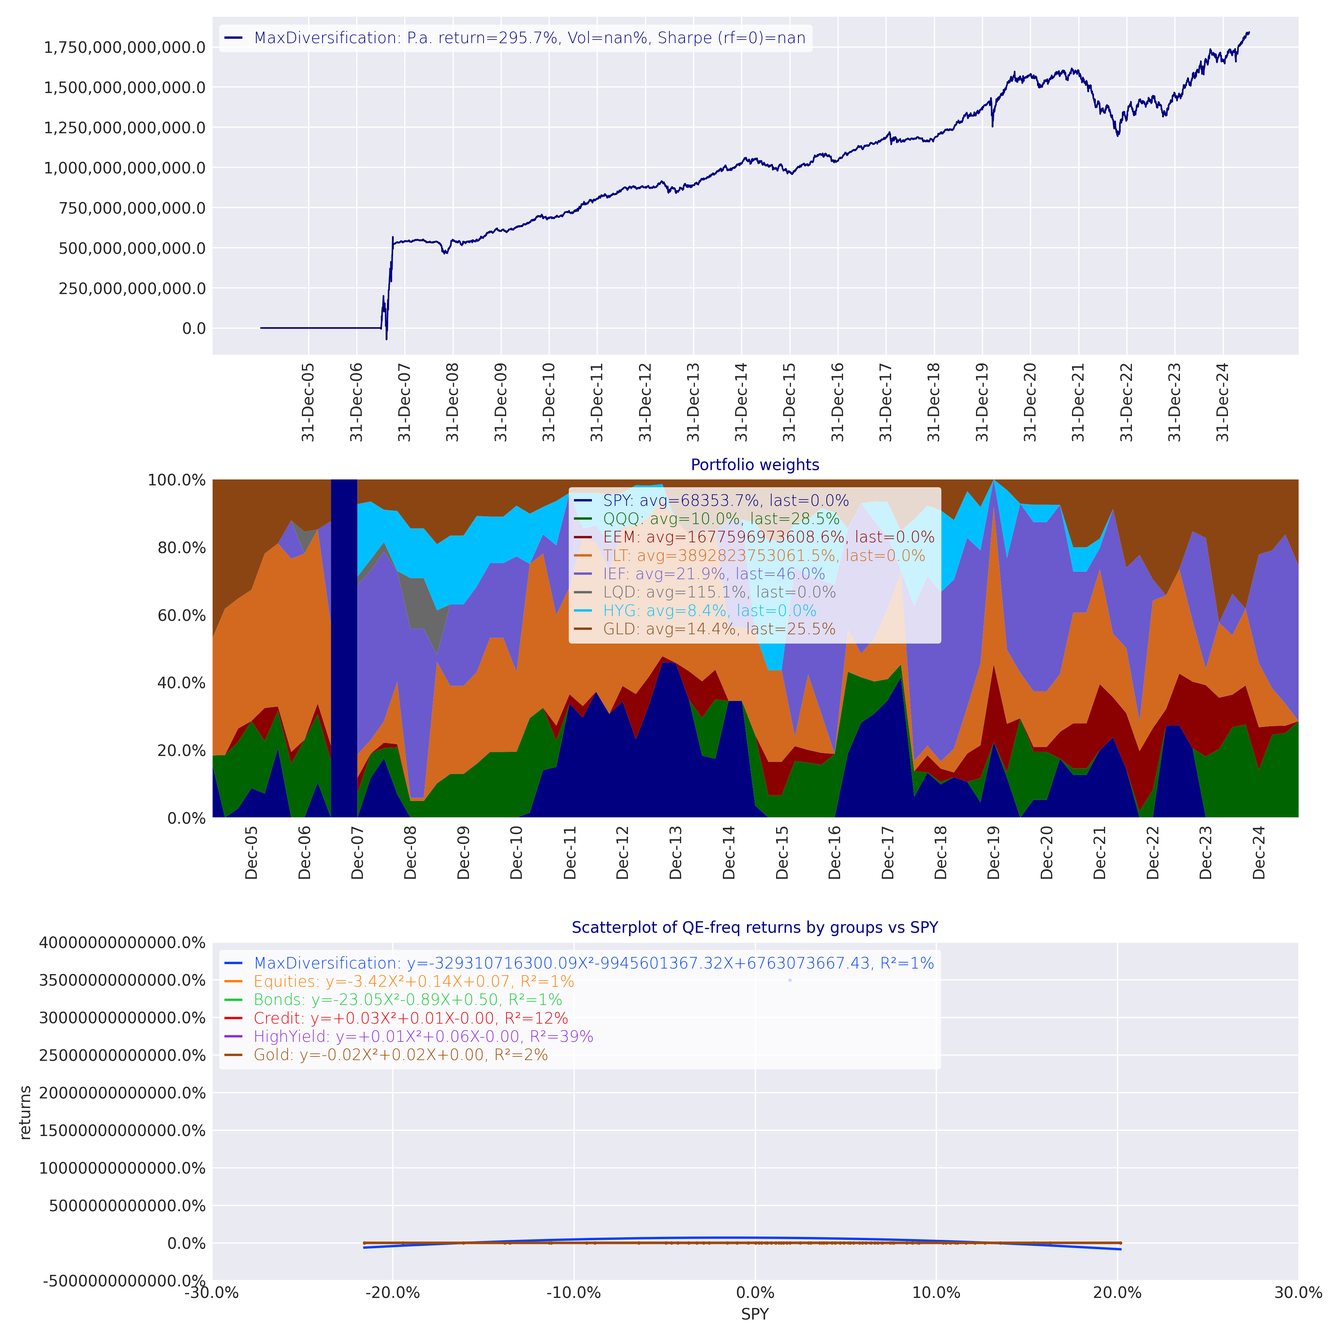
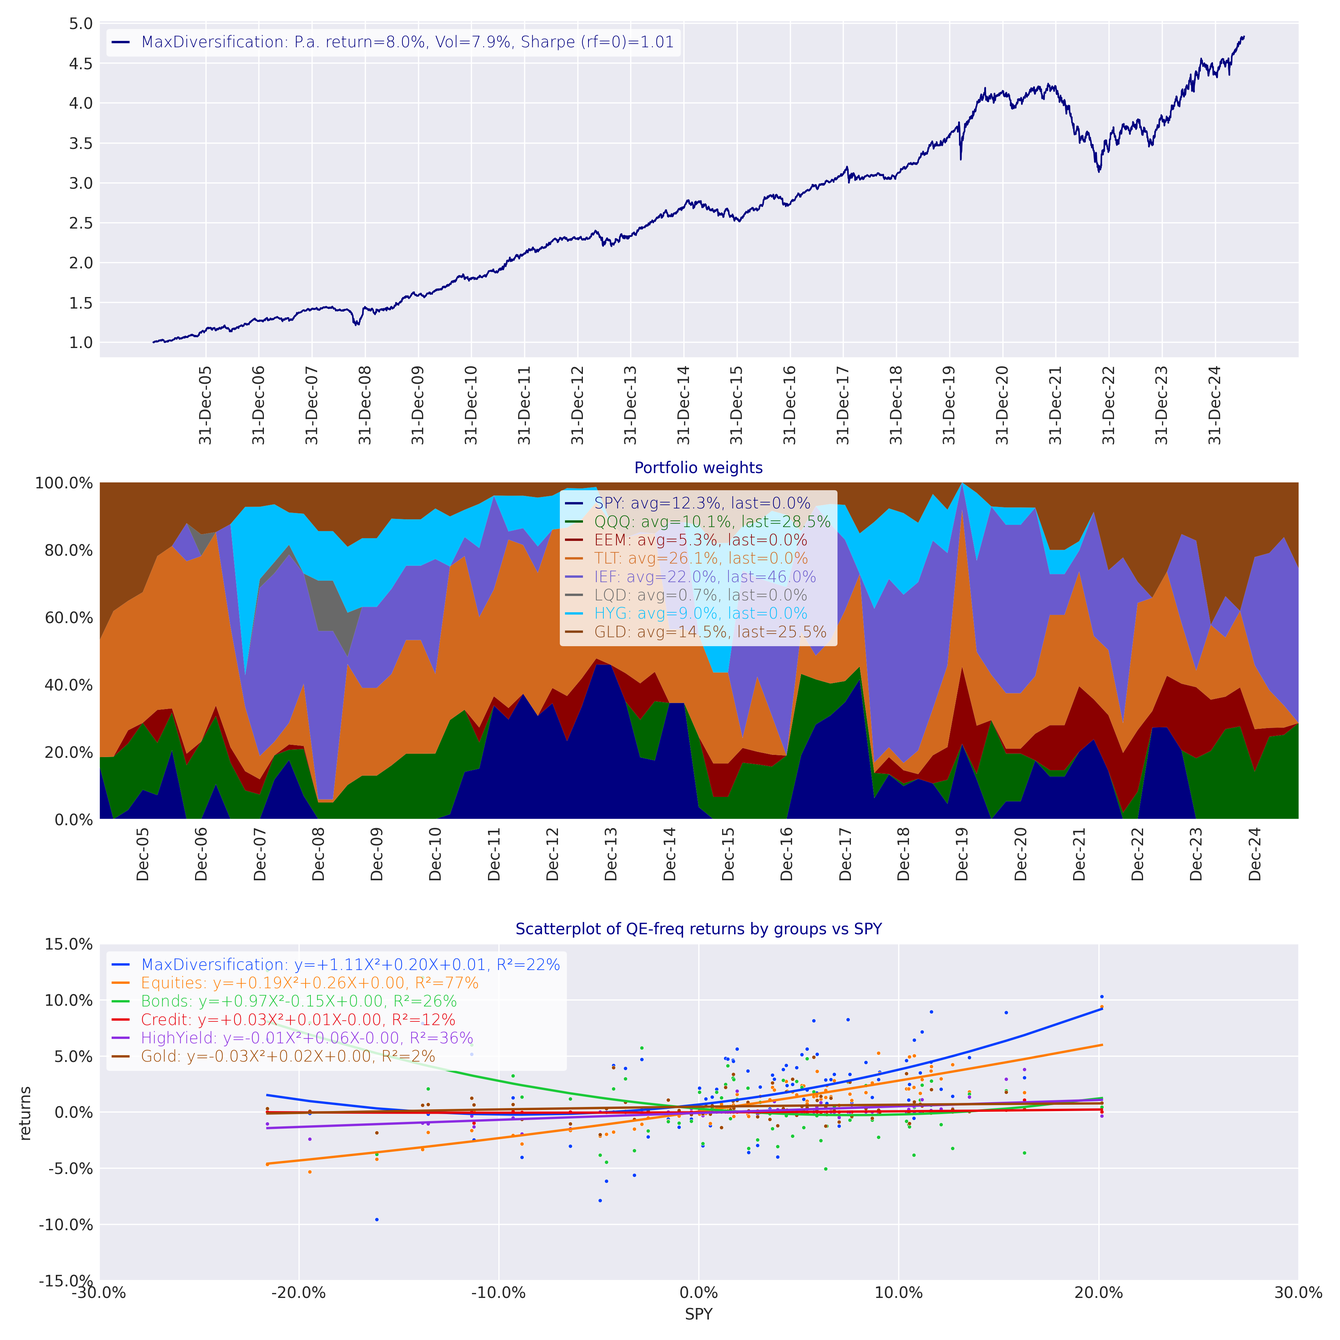
add returns unsmoother and example of tracking error computation

diff --git a/optimalportfolios/examples/computation_of_tracking_error.py b/optimalportfolios/examples/computation_of_tracking_error.py
@@ -1,0 +1,68 @@
+"""
+example of minimization of tracking error
+"""
+import numpy as np
+import pandas as pd
+import matplotlib.pyplot as plt
+import qis as qis
+import yfinance as yf
+from enum import Enum
+
+from optimalportfolios import (Constraints, GroupLowerUpperConstraints, CovarEstimator,
+                               compute_tre_turnover_stats,
+                               wrapper_quadratic_optimisation,
+                               wrapper_risk_budgeting,
+                               wrapper_maximise_diversification,
+                               estimate_current_ewma_covar,
+                               PortfolioObjective,
+                               compute_portfolio_vol,
+                               local_path)
+
+from optimalportfolios.examples.universe import fetch_benchmark_universe_data
+
+def create_stocks_data():
+    dow_30_tickers = ['NVDA', 'MSFT', 'AAPL', 'AMZN', 'JPM', 'WMT', 'V', 'JNJ', 'PG', 'HD', 'KO', 'CSCO', 'IBM',
+                      'CVX', 'UNH', 'CRM', 'DIS', 'AXP', 'MCD', 'GS', 'MRK', 'CAT', 'VZ', 'BA', 'AMGN', 'HON', 'NKE',
+                      'SHW', 'MMM', 'TRV']
+    prices = yf.download(tickers=dow_30_tickers, start="2003-12-31", end=None, ignore_tz=True, auto_adjust=True)['Close'][dow_30_tickers]
+    qis.save_df_to_csv(df=prices, file_name='dow30_prices', local_path=local_path.get_resource_path())
+
+# create_stocks_data()
+prices = qis.load_df_from_csv(file_name='dow30_prices', local_path=local_path.get_resource_path())
+print(prices)
+benchmark_weights = pd.Series(1.0/len(prices.columns), index=prices.columns)
+
+# prices, benchmark_prices, ac_loadings, benchmark_weights, group_data, ac_benchmark_prices = fetch_benchmark_universe_data()
+time_period = qis.TimePeriod(start='31Dec2009', end=prices.index[-1])
+perf_time_period = qis.TimePeriod(start='31Dec2004', end=prices.index[-1])  # backtest reporting
+
+covar_matrix = estimate_current_ewma_covar(prices=prices, span=3*52)
+print(covar_matrix)
+
+# portfolio_weights = wrapper_risk_budgeting(pd_covar=covar_matrix, constraints0=Constraints(is_long_only=True))
+# portfolio_weights = wrapper_quadratic_optimisation(pd_covar=covar_matrix, constraints0=Constraints(is_long_only=True))
+portfolio_weights = wrapper_maximise_diversification(pd_covar=covar_matrix, constraints0=Constraints(is_long_only=True))
+
+print(f"benchmark_vol={compute_portfolio_vol(covar_matrix, benchmark_weights):.2%}, "
+      f"portfolio_vol={compute_portfolio_vol(covar_matrix, portfolio_weights):.2%},"
+      f"tracking_error={compute_portfolio_vol(covar_matrix, benchmark_weights-portfolio_weights):.2%}")
+
+risk_contributions = qis.compute_portfolio_risk_contributions(w=portfolio_weights, covar=covar_matrix)
+risk_contributions_rel = risk_contributions / np.nansum(risk_contributions)
+
+tre_contributions = qis.compute_portfolio_risk_contributions(w=(portfolio_weights-benchmark_weights), covar=covar_matrix)
+tre_contributions_rel = tre_contributions / np.nansum(tre_contributions)
+
+df = pd.concat([benchmark_weights.rename('benchmark'),
+                portfolio_weights.rename('portfolio'),
+                risk_contributions.rename('risk-contribs bp'),
+                risk_contributions_rel.rename('risk-contribs %'),
+                tre_contributions.rename('tre contribs bp'),
+                tre_contributions_rel.rename('tre contribs %'),
+                ], axis=1)
+df.loc['total', :] = df.sum(axis=0)
+qis.plot_df_table(df=df, var_format='{:.2%}')
+
+plt.show()
+
+

diff --git a/optimalportfolios/examples/solvers/tracking_error.py b/optimalportfolios/examples/solvers/tracking_error.py
@@ -8,7 +8,7 @@ import qis as qis
 from enum import Enum
 
 from optimalportfolios import (Constraints, GroupLowerUpperConstraints, CovarEstimator,
-                               compute_te_turnover,
+                               compute_tre_turnover_stats,
                                rolling_maximise_alpha_over_tre,
                                wrapper_maximise_alpha_over_tre)
 
@@ -103,11 +103,11 @@ def run_unit_test(unit_test: UnitTests):
         print(f"df_weight=\n{df_weight}")
         qis.plot_bars(df=df_weight.iloc[:, :2])
 
-        te_vol, turnover, alpha, port_vol, benchmark_vol = compute_te_turnover(covar=pd_covar.to_numpy(),
-                                                                               benchmark_weights=benchmark_weights,
-                                                                               weights=weights,
-                                                                               weights_0=benchmark_weights,
-                                                                               alphas=alphas)
+        te_vol, turnover, alpha, port_vol, benchmark_vol = compute_tre_turnover_stats(covar=pd_covar.to_numpy(),
+                                                                                      benchmark_weights=benchmark_weights,
+                                                                                      weights=weights,
+                                                                                      weights_0=benchmark_weights,
+                                                                                      alphas=alphas)
         print(f"port_vol={port_vol:0.4f}, benchmark_vol={benchmark_vol:0.4f}, te_vol={te_vol:0.4f}, "
               f"turnover={turnover:0.4f}, alpha={alpha:0.4f}")
 
@@ -149,11 +149,11 @@ def run_unit_test(unit_test: UnitTests):
 
                 weights = pd.Series(weights, index=prices.columns)
                 weights_grid[port_name] = weights
-                te_vol, turnover, port_alpha, port_vol, benchmark_vol = compute_te_turnover(covar=pd_covar.to_numpy(),
-                                                                                            benchmark_weights=benchmark_weights,
-                                                                                            weights=weights,
-                                                                                            weights_0=benchmark_weights,
-                                                                                            alphas=alphas)
+                te_vol, turnover, port_alpha, port_vol, benchmark_vol = compute_tre_turnover_stats(covar=pd_covar.to_numpy(),
+                                                                                                   benchmark_weights=benchmark_weights,
+                                                                                                   weights=weights,
+                                                                                                   weights_0=benchmark_weights,
+                                                                                                   alphas=alphas)
                 port_name_ = f"turnover<{turnover_constraint:0.2f}"
                 port_vols_[port_name_] = port_vol
                 te_vols_[port_name_] = te_vol

diff --git a/optimalportfolios/utils/returns_unsmoother.py b/optimalportfolios/utils/returns_unsmoother.py
@@ -1,0 +1,53 @@
+"""
+returns unsmoothing using AR-1 betas
+"""
+import pandas as pd
+import qis as qis
+from typing import Optional, Tuple
+
+
+def adjust_returns_with_ar1(returns: pd.DataFrame,
+                            span: int = 20,
+                            mean_adj_type: qis.MeanAdjType = qis.MeanAdjType.NONE,
+                            warmup_period: Optional[int] = 10,
+                            max_value_for_beta: float = 0.75,
+                            apply_ewma_mean_smoother: bool = True
+                            ) -> Tuple[pd.DataFrame, pd.DataFrame, pd.DataFrame]:
+    """
+    estimate: x_{t} = beta * x_{t-1}
+    compute: usmoothed value = (x_{t} - beta * x_{t-1})  / ( 1.0 - beta)
+    beta is clipped to make it stationary
+    """
+    x = returns.shift(1)
+    betas, _, _, _, _, ewm_r2 = qis.compute_ewm_beta_alpha_forecast(x_data=x,
+                                                                    y_data=returns,
+                                                                    mean_adj_type=mean_adj_type,
+                                                                    span=span)
+    betas = betas.clip(lower=0.0, upper=max_value_for_beta)
+    if apply_ewma_mean_smoother:
+        betas = qis.compute_ewm(data=betas, span=span)
+
+    if warmup_period is not None:   # set to nan first nonnan in warmup_period and backfill from the first available beta
+        betas = qis.set_nans_for_warmup_period(a=betas, warmup_period=warmup_period)
+        betas = betas.reindex(index=returns.index).bfill()
+
+    prediction = x.multiply(betas)
+    unsmoothed = (returns - prediction).divide(1.0-betas)
+    return unsmoothed, betas, ewm_r2
+
+
+def compute_ar1_unsmoothed_prices(prices: pd.DataFrame,
+                                  freq: str = 'QE',
+                                  span: int = 20,
+                                  mean_adj_type: qis.MeanAdjType = qis.MeanAdjType.NONE,
+                                  warmup_period: Optional[int] = 8,
+                                  max_value_for_beta: float = 0.5
+                                  ) -> Tuple[pd.DataFrame, pd.DataFrame, pd.DataFrame, pd.DataFrame]:
+    y = qis.to_returns(prices, freq=freq, drop_first=False)
+    unsmoothed, betas, ewm_r2 = adjust_returns_with_ar1(returns=y,
+                                                        span=span,
+                                                        mean_adj_type=mean_adj_type,
+                                                        warmup_period=warmup_period,
+                                                        max_value_for_beta=max_value_for_beta)
+    navs = qis.returns_to_nav(returns=unsmoothed)
+    return navs, unsmoothed, betas, ewm_r2

diff --git a/optimalportfolios/examples/solvers/carra_mixture.py b/optimalportfolios/examples/solvers/carra_mixture.py
@@ -7,7 +7,7 @@ import qis as qis
 from enum import Enum
 
 from optimalportfolios import (Constraints, GroupLowerUpperConstraints,
-                               compute_te_turnover,
+                               compute_tre_turnover_stats,
                                rolling_maximize_cara_mixture,
                                wrapper_maximize_cara_mixture,
                                fit_gaussian_mixture)
@@ -56,10 +56,10 @@ def run_unit_test(unit_test: UnitTests):
 
         pd_covar = pd.DataFrame(12.0 * qis.compute_masked_covar_corr(data=returns, is_covar=True),
                                 index=prices.columns, columns=prices.columns)
-        te_vol, turnover, alpha, port_vol, benchmark_vol = compute_te_turnover(covar=pd_covar.to_numpy(),
-                                                                               benchmark_weights=benchmark_weights,
-                                                                               weights=weights,
-                                                                               weights_0=benchmark_weights)
+        te_vol, turnover, alpha, port_vol, benchmark_vol = compute_tre_turnover_stats(covar=pd_covar.to_numpy(),
+                                                                                      benchmark_weights=benchmark_weights,
+                                                                                      weights=weights,
+                                                                                      weights_0=benchmark_weights)
         print(f"port_vol={port_vol:0.4f}, benchmark_vol={benchmark_vol:0.4f}, te_vol={te_vol:0.4f}, "
               f"turnover={turnover:0.4f}, alpha={alpha:0.4f}")
 

diff --git a/optimalportfolios/covar_estimation/rolling_covar.py b/optimalportfolios/covar_estimation/rolling_covar.py
@@ -276,7 +276,7 @@ def estimate_rolling_lasso_covar_different_freq(risk_factor_prices: pd.DataFrame
                                                 squeeze_factor: Optional[float] = None,
                                                 residual_var_weight: float = 1.0,
                                                 is_adjust_for_newey_west: bool = False,
-                                                num_lags_newey_west: Dict[str, int] = {'ME': 0, 'QE': 2}
+                                                num_lags_newey_west: Optional[Dict[str, int]] = {'ME': 0, 'QE': 2}
                                                 ) -> EstimatedRollingCovarData:
     """
     use benchmarks to compute the benchmark covar matrix
@@ -320,10 +320,14 @@ def estimate_rolling_lasso_covar_different_freq(risk_factor_prices: pd.DataFrame
                 raise KeyError(f"no span for freq={freq}")
         else:
             span_f = lasso_model.span
+        if num_lags_newey_west is not None and freq in num_lags_newey_west.keys():
+            num_lags = num_lags_newey_west[freq]
+        else:
+            num_lags = None
         betas_freqs[freq], total_vars_freqs[freq], residual_vars_freqs[freq], r2_freqs[freq] \
             = lasso_model.estimate_rolling_betas(x=x, y=y, span=span_f,
                                                  is_adjust_for_newey_west=is_adjust_for_newey_west,
-                                                 num_lags=num_lags_newey_west[freq])
+                                                 num_lags=num_lags)
 
         if is_adjust_for_newey_west:
             ewm_nw, nw_ratios_ = qis.compute_ewm_newey_west_vol(data=y, span=span_f, num_lags=num_lags_newey_west[freq],

diff --git a/optimalportfolios/examples/solvers/max_diversification.py b/optimalportfolios/examples/solvers/max_diversification.py
@@ -7,7 +7,7 @@ import qis as qis
 from enum import Enum
 
 from optimalportfolios import (Constraints, GroupLowerUpperConstraints, CovarEstimator,
-                               compute_te_turnover,
+                               compute_tre_turnover_stats,
                                rolling_maximise_diversification,
                                wrapper_maximise_diversification)
 
@@ -53,10 +53,10 @@ def run_unit_test(unit_test: UnitTests):
         print(f"weights=\n{df_weight}")
         qis.plot_bars(df=df_weight, stacked=False)
 
-        te_vol, turnover, alpha, port_vol, benchmark_vol = compute_te_turnover(covar=pd_covar.to_numpy(),
-                                                                               benchmark_weights=benchmark_weights,
-                                                                               weights=weights,
-                                                                               weights_0=benchmark_weights)
+        te_vol, turnover, alpha, port_vol, benchmark_vol = compute_tre_turnover_stats(covar=pd_covar.to_numpy(),
+                                                                                      benchmark_weights=benchmark_weights,
+                                                                                      weights=weights,
+                                                                                      weights_0=benchmark_weights)
         print(f"port_vol={port_vol:0.4f}, benchmark_vol={benchmark_vol:0.4f}, te_vol={te_vol:0.4f}, "
               f"turnover={turnover:0.4f}, alpha={alpha:0.4f}")
 

diff --git a/optimalportfolios/examples/solvers/min_variance.py b/optimalportfolios/examples/solvers/min_variance.py
@@ -8,7 +8,7 @@ import qis as qis
 from enum import Enum
 
 from optimalportfolios import (Constraints, GroupLowerUpperConstraints, CovarEstimator,
-                               compute_te_turnover,
+                               compute_tre_turnover_stats,
                                wrapper_quadratic_optimisation,
                                rolling_quadratic_optimisation)
 
@@ -54,10 +54,10 @@ def run_unit_test(unit_test: UnitTests):
         print(f"weights=\n{df_weight}")
         qis.plot_bars(df=df_weight)
 
-        te_vol, turnover, alpha, port_vol, benchmark_vol = compute_te_turnover(covar=pd_covar.to_numpy(),
-                                                                               benchmark_weights=benchmark_weights,
-                                                                               weights=weights,
-                                                                               weights_0=benchmark_weights)
+        te_vol, turnover, alpha, port_vol, benchmark_vol = compute_tre_turnover_stats(covar=pd_covar.to_numpy(),
+                                                                                      benchmark_weights=benchmark_weights,
+                                                                                      weights=weights,
+                                                                                      weights_0=benchmark_weights)
         print(f"port_vol={port_vol:0.4f}, benchmark_vol={benchmark_vol:0.4f}, te_vol={te_vol:0.4f}, "
               f"turnover={turnover:0.4f}, alpha={alpha:0.4f}")
 

diff --git a/optimalportfolios/examples/solvers/max_sharpe.py b/optimalportfolios/examples/solvers/max_sharpe.py
@@ -8,7 +8,7 @@ import qis as qis
 from enum import Enum
 
 from optimalportfolios import (Constraints, GroupLowerUpperConstraints,
-                               compute_te_turnover,
+                               compute_tre_turnover_stats,
                                rolling_maximize_portfolio_sharpe,
                                wrapper_maximize_portfolio_sharpe)
 
@@ -54,10 +54,10 @@ def run_unit_test(unit_test: UnitTests):
         print(f"weights=\n{df_weight}")
         qis.plot_bars(df=df_weight)
 
-        te_vol, turnover, alpha, port_vol, benchmark_vol = compute_te_turnover(covar=pd_covar.to_numpy(),
-                                                                               benchmark_weights=benchmark_weights,
-                                                                               weights=weights,
-                                                                               weights_0=benchmark_weights)
+        te_vol, turnover, alpha, port_vol, benchmark_vol = compute_tre_turnover_stats(covar=pd_covar.to_numpy(),
+                                                                                      benchmark_weights=benchmark_weights,
+                                                                                      weights=weights,
+                                                                                      weights_0=benchmark_weights)
         print(f"port_vol={port_vol:0.4f}, benchmark_vol={benchmark_vol:0.4f}, te_vol={te_vol:0.4f}, "
               f"turnover={turnover:0.4f}, alpha={alpha:0.4f}")
 

diff --git a/optimalportfolios/examples/solvers/risk_parity.py b/optimalportfolios/examples/solvers/risk_parity.py
@@ -8,7 +8,7 @@ import qis as qis
 from enum import Enum
 
 from optimalportfolios import (Constraints, GroupLowerUpperConstraints, CovarEstimator,
-                               compute_te_turnover,
+                               compute_tre_turnover_stats,
                                wrapper_risk_budgeting,
                                rolling_risk_budgeting)
 
@@ -54,10 +54,10 @@ def run_unit_test(unit_test: UnitTests):
         print(f"weights=\n{df_weight}")
         qis.plot_bars(df=df_weight)
 
-        te_vol, turnover, alpha, port_vol, benchmark_vol = compute_te_turnover(covar=pd_covar.to_numpy(),
-                                                                               benchmark_weights=benchmark_weights,
-                                                                               weights=weights,
-                                                                               weights_0=benchmark_weights)
+        te_vol, turnover, alpha, port_vol, benchmark_vol = compute_tre_turnover_stats(covar=pd_covar.to_numpy(),
+                                                                                      benchmark_weights=benchmark_weights,
+                                                                                      weights=weights,
+                                                                                      weights_0=benchmark_weights)
         print(f"port_vol={port_vol:0.4f}, benchmark_vol={benchmark_vol:0.4f}, te_vol={te_vol:0.4f}, "
               f"turnover={turnover:0.4f}, alpha={alpha:0.4f}")
 

diff --git a/optimalportfolios/utils/portfolio_funcs.py b/optimalportfolios/utils/portfolio_funcs.py
@@ -32,12 +32,12 @@ def compute_portfolio_vol(covar: Union[np.ndarray, pd.DataFrame],
     return np.sqrt(compute_portfolio_variance(w=weights, covar=covar))
 
 
-def compute_te_turnover(covar: np.ndarray,
-                        benchmark_weights: pd.Series,
-                        weights: pd.Series,
-                        weights_0: pd.Series,
-                        alphas: pd.Series = None
-                        ) -> Tuple[float, float, float, float, float]:
+def compute_tre_turnover_stats(covar: np.ndarray,
+                               benchmark_weights: pd.Series,
+                               weights: pd.Series,
+                               weights_0: pd.Series,
+                               alphas: pd.Series = None
+                               ) -> Tuple[float, float, float, float, float]:
     weight_diff = weights.subtract(benchmark_weights)
     benchmark_vol = np.sqrt(benchmark_weights @ covar @ benchmark_weights.T)
     port_vol = np.sqrt(weights @ covar @ weights.T)

diff --git a/optimalportfolios/utils/__init__.py b/optimalportfolios/utils/__init__.py
@@ -3,7 +3,7 @@ from optimalportfolios.utils.filter_nans import (filter_covar_and_vectors,
                                                  filter_covar_and_vectors_for_nans)
 
 from optimalportfolios.utils.portfolio_funcs import (compute_portfolio_vol,
-                                                     compute_te_turnover)
+                                                     compute_tre_turnover_stats)
 
 from optimalportfolios.utils.portfolio_funcs import (compute_portfolio_variance,
                                                      calculate_diversification_ratio,
@@ -22,3 +22,7 @@ from optimalportfolios.utils.factor_alphas import (compute_low_beta_alphas,
 
 from optimalportfolios.utils.manager_alphas import (AlphasData,
                                                     compute_joint_alphas)
+
+from optimalportfolios.utils.returns_unsmoother import (adjust_returns_with_ar1,
+                                                        compute_ar1_unsmoothed_prices)
+

diff --git a/optimalportfolios/optimization/solvers/tracking_error.py b/optimalportfolios/optimization/solvers/tracking_error.py
@@ -58,8 +58,10 @@ def rolling_maximise_alpha_over_tre(prices: pd.DataFrame,
                                                    weights_0=weights_0,
                                                    apply_total_to_good_ratio=apply_total_to_good_ratio,
                                                    solver=solver)
-
-        weights_0 = weights_  # update for next rebalancing
+        if np.all(np.equal(weights_, 0.0)):
+            weights_0 = None
+        else:
+            weights_0 = weights_  # update for next rebalancing
         weights[date] = weights_
 
     weights = pd.DataFrame.from_dict(weights, orient='index')
